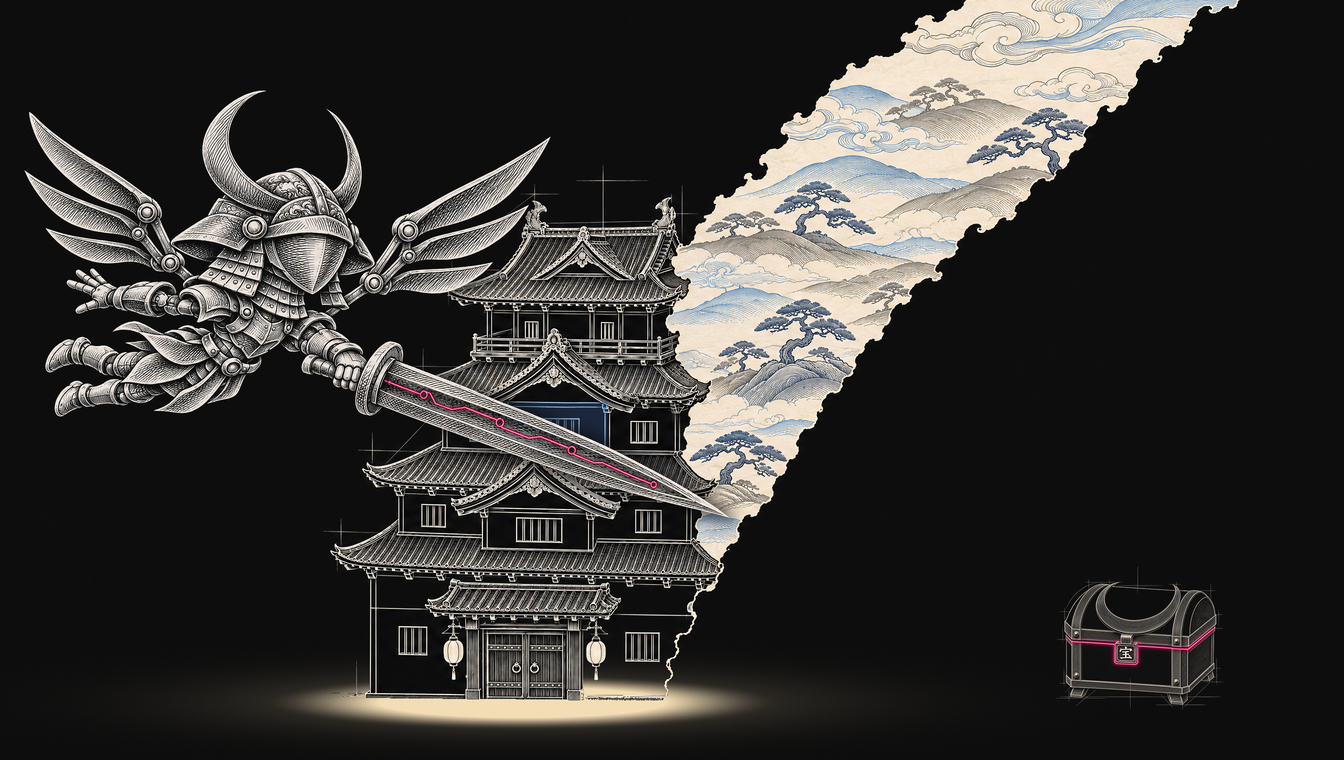
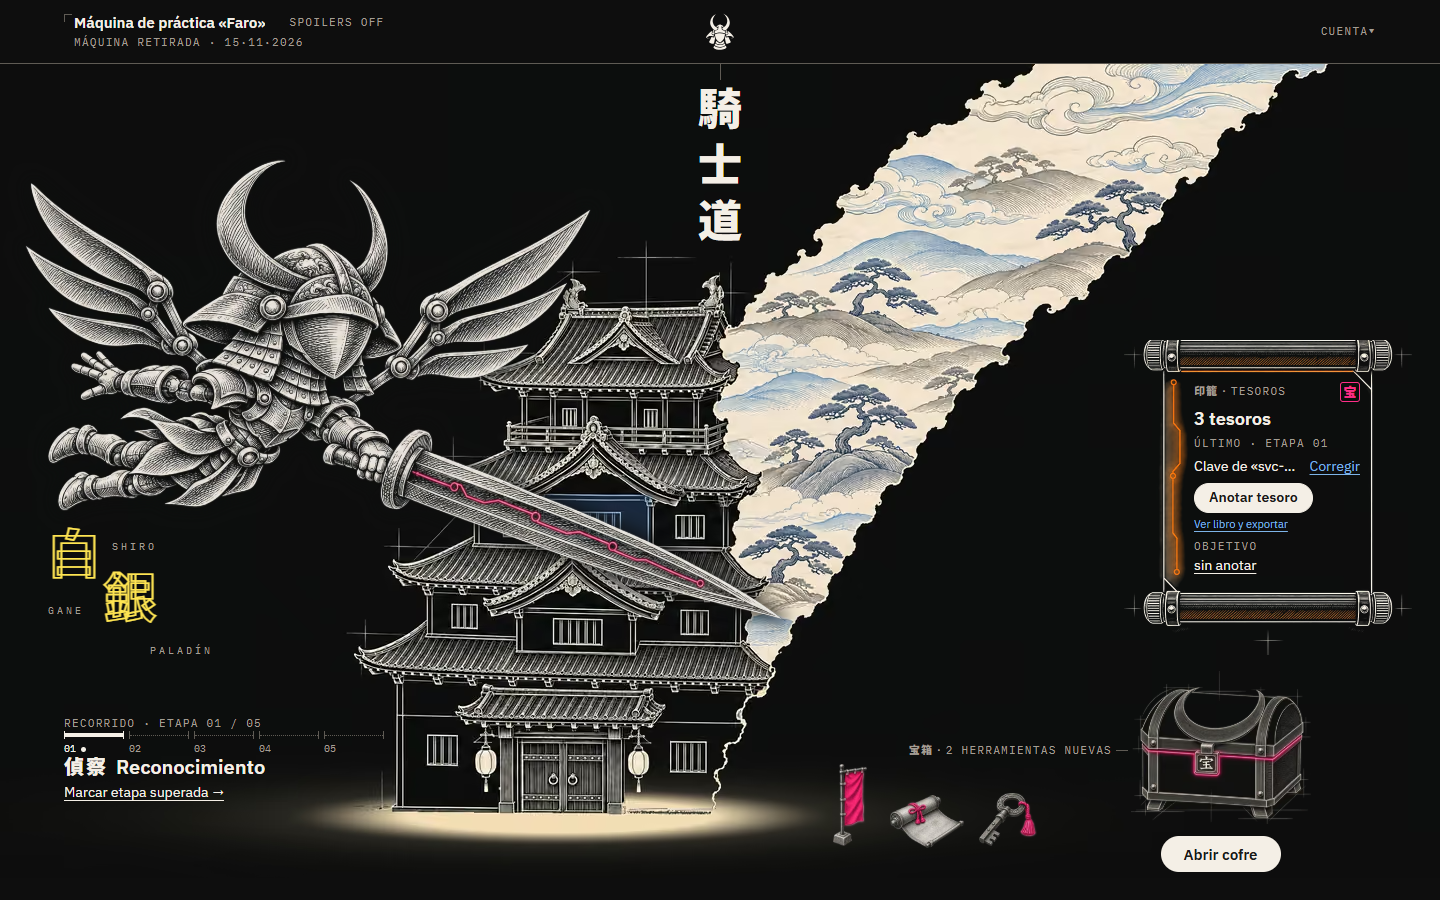
docs: la v1 de Kishidō terminada y probada en local, con capturas del programa real (portada, tablero, cofre, libro y móvil)

diff --git a/README.md b/README.md
@@ -2,8 +2,8 @@
 
 # Kishidō · 騎士道
 
-**Un acompañante con IA para aprender ciberseguridad practicando: te orienta por etapas
-mientras resuelves un reto, sin darte la solución, y guarda tus notas.**
+**Un acompañante para aprender ciberseguridad practicando: te guía por etapas mientras
+resuelves un reto, sin darte la solución, y guarda tus notas.**
 
 Y, con el mismo peso, lo que **no** hace: no aloja laboratorios, no entrega banderas y no
 es una herramienta contra sistemas reales.
@@ -11,28 +11,29 @@ es una herramienta contra sistemas reales.
 [![Java](https://img.shields.io/badge/Java-25-orange?logo=openjdk)](https://openjdk.org/)
 [![Spring Boot](https://img.shields.io/badge/Spring%20Boot-4.1-6DB33F?logo=spring)](https://spring.io/projects/spring-boot)
 [![PostgreSQL](https://img.shields.io/badge/PostgreSQL-336791?logo=postgresql&logoColor=white)](https://www.postgresql.org/)
-[![Estado](https://img.shields.io/badge/estado-en%20desarrollo-FF2E88)](#estado)
+[![Estado](https://img.shields.io/badge/estado-v1%20en%20local-FF2E88)](#estado)
 [![Licencia](https://img.shields.io/badge/licencia-propietaria-A39E94)](#licencia)
 
 <br>
 
-<img src="docs/capturas/01-tablero.png" width="900"
-     alt="El tablero de Kishidō: el paladín Shirogane vuela desde la izquierda y su espada señala el cofre de la etapa; detrás, un castillo japonés en grabado dentro de un corte de papel con paisaje; abajo a la izquierda, la barra de recorrido en la etapa 3 de 5; a la derecha, el pergamino de tesoros">
+<img src="docs/capturas/01-portada.png" width="900"
+     alt="La portada de Kishidō: el nombre enorme sobre fondo plateado, el paladín Shirogane en primer plano mirando con un ojo rojo por encima de los brazos cruzados y, a la derecha, el lema «El método, no la bandera» con la llamada «Abrir el cofre de muestra»">
 
-<sub>Diseño aprobado de la pantalla principal (mockup). El programa está en construcción:
-todavía no hay capturas del producto real.</sub>
+<sub>La portada del programa en marcha. Todas las capturas son del producto real, con datos
+de práctica inventados.</sub>
 
 </div>
 
-> **In English.** Kishidō is an AI companion for people learning offensive security
-> through practice challenges (CTFs and retired training machines). It walks the learner
-> through five stages, suggests which tools fit the stage they are in, and gives
-> spoiler-free guidance on the output they paste, so they keep solving the challenge
-> themselves. It keeps their findings as notes they can export as Markdown. It does not
-> host labs, it never hands over the flag, and it only works on environments the learner
-> is authorized to practice on. Spanish-first. Built with Java 25, Spring Boot 4 and
-> PostgreSQL. Currently in development: what you see here is the approved design, not
-> the running product.
+> **In English.** Kishidō is a companion for people learning offensive security through
+> practice challenges (CTFs and retired training machines). It walks the learner through
+> five stages, shows which tools fit the stage they are in, with their official
+> documentation and a short focus guide, and keeps their findings as notes they can export
+> as Markdown. Spoiler-free AI guidance on pasted terminal output is built and tested
+> against a simulated model; it will be switched on once it passes its evaluation set. It
+> does not host labs, it never hands over the flag, and it only works on environments the
+> learner is authorized to practice on. Spanish-first, for desktop and mobile. Built with
+> Java 25, Spring Boot 4 and PostgreSQL. The first version is finished and tested locally;
+> it is not deployed yet.
 
 ---
 
@@ -49,8 +50,8 @@ siguiente paso. Además, casi todo el material de apoyo está en inglés.
 |---|---|
 | **1 · Ordena el reto en cinco etapas** | Reconocimiento, entrada, pasillos, cuarto y cámara. Siempre se sabe en qué punto se está y qué queda |
 | **2 · Abre el cofre de la etapa** | Un catálogo fijo de herramientas para esa etapa, cada una con su documentación oficial, y una guía de enfoque. Funciona aunque la IA no esté disponible |
-| **3 · Orienta sin spoilers** | El aprendiz pega la salida de su terminal y recibe una pista sobre cómo leerla y qué mirar después. Nunca la bandera ni el paso exacto |
-| **4 · Guarda los tesoros** | Cada hallazgo se anota en su etapa, y se cuenta cuántos cuartos se han explorado |
+| **3 · Orienta sin spoilers** | El aprendiz pega la salida de su terminal y recibe una pista sobre cómo leerla y qué mirar después. Nunca la bandera ni el paso exacto. Está construida y probada contra un modelo simulado; se encenderá cuando pase su conjunto de evaluación |
+| **4 · Guarda los tesoros** | Cada hallazgo se anota en su etapa, y se cuenta cuántos cuartos se han explorado. Se pueden llevar varias expediciones a la vez, cada una con lo suyo |
 | **5 · Exporta las notas** | En Markdown, y sin el texto de la IA por defecto: las notas son de quien las escribió |
 
 ## El tablero
@@ -86,8 +87,29 @@ de escena con cada etapa del recorrido.
 </tr>
 </table>
 
-<sub>Todas las imágenes son arte propio del proyecto, montado sobre el diseño aprobado.
-No son capturas del programa.</sub>
+<sub>Capturas del tablero real a 1440 × 900, en una expedición de prueba con sus tesoros. El
+arte es propio del proyecto.</sub>
+
+## Más pantallas
+
+<table>
+<tr>
+<td width="50%"><img src="docs/capturas/07-cofre.png" alt="El cofre abierto en la etapa 1: el método de la etapa y las herramientas recomendadas, cada una con su explicación, un ejemplo de uso y su documentación oficial con la fecha en que se comprobó"></td>
+<td width="50%"><img src="docs/capturas/08-libro.png" alt="El libro de tesoros: los hallazgos, banderas y credenciales del laboratorio de cada etapa, con su nota y la opción de corregirlos"></td>
+</tr>
+<tr>
+<td><sub><b>El cofre.</b> Las herramientas de la etapa, con su documentación oficial, y una guía de enfoque. Funciona sin IA.</sub></td>
+<td><sub><b>El libro de tesoros.</b> Todo lo encontrado, etapa por etapa, listo para exportar en Markdown.</sub></td>
+</tr>
+<tr>
+<td><img src="docs/capturas/09-movil.png" alt="El tablero en un teléfono: el paladín y su espada en diagonal sobre la escena de la etapa, la barra de recorrido y el botón del cofre abajo"></td>
+<td></td>
+</tr>
+<tr>
+<td><sub><b>En el móvil.</b> El mismo tablero, recompuesto para una pantalla vertical.</sub></td>
+<td></td>
+</tr>
+</table>
 
 ## Principios
 
@@ -106,12 +128,18 @@ reglas del producto es Java puro, separado de la web y de la base de datos.
 
 ## Estado
 
-En desarrollo. Están cerrados el estudio previo, la marca, el diseño del tablero y la
-arquitectura; la construcción empieza por los cimientos (compilación, pruebas, datos y
-seguridad). La primera versión será una aplicación web en español, para escritorio.
+**La primera versión está terminada y probada en local.** Tiene la portada, el acceso
+por enlace al correo, varias expediciones a la vez y el tablero en escritorio y en móvil.
+También el cofre de cada etapa, los tesoros y las notas, la exportación en Markdown, y la
+descarga y el borrado de los datos propios. La orientación con IA está construida y
+probada contra un modelo simulado: se encenderá cuando pase su conjunto de evaluación.
 
-Este repositorio se actualiza en hitos: cuando exista el programa, estas imágenes se
-cambiarán por capturas reales.
+Cada regla del producto tiene su comprobación automática: pruebas unitarias y de
+integración, pruebas de mutación del filtro de banderas y recorridos en un navegador real
+con comprobaciones de accesibilidad.
+
+Falta el despliegue: todavía no hay un sitio público. Este repositorio se actualiza en
+hitos.
 
 ## Licencia
 
@@ -123,4 +151,4 @@ Kishidō es un proyecto independiente. No está afiliado ni avalado por ninguna 
 de práctica ni por ningún organismo de certificación; los nombres de terceros pertenecen
 a sus propietarios.
 
-© 2026 Rubén Agudelo Alzate.
+© 2026 Rubén Agudelo Alzate · Hecho en Medellín, Colombia.
